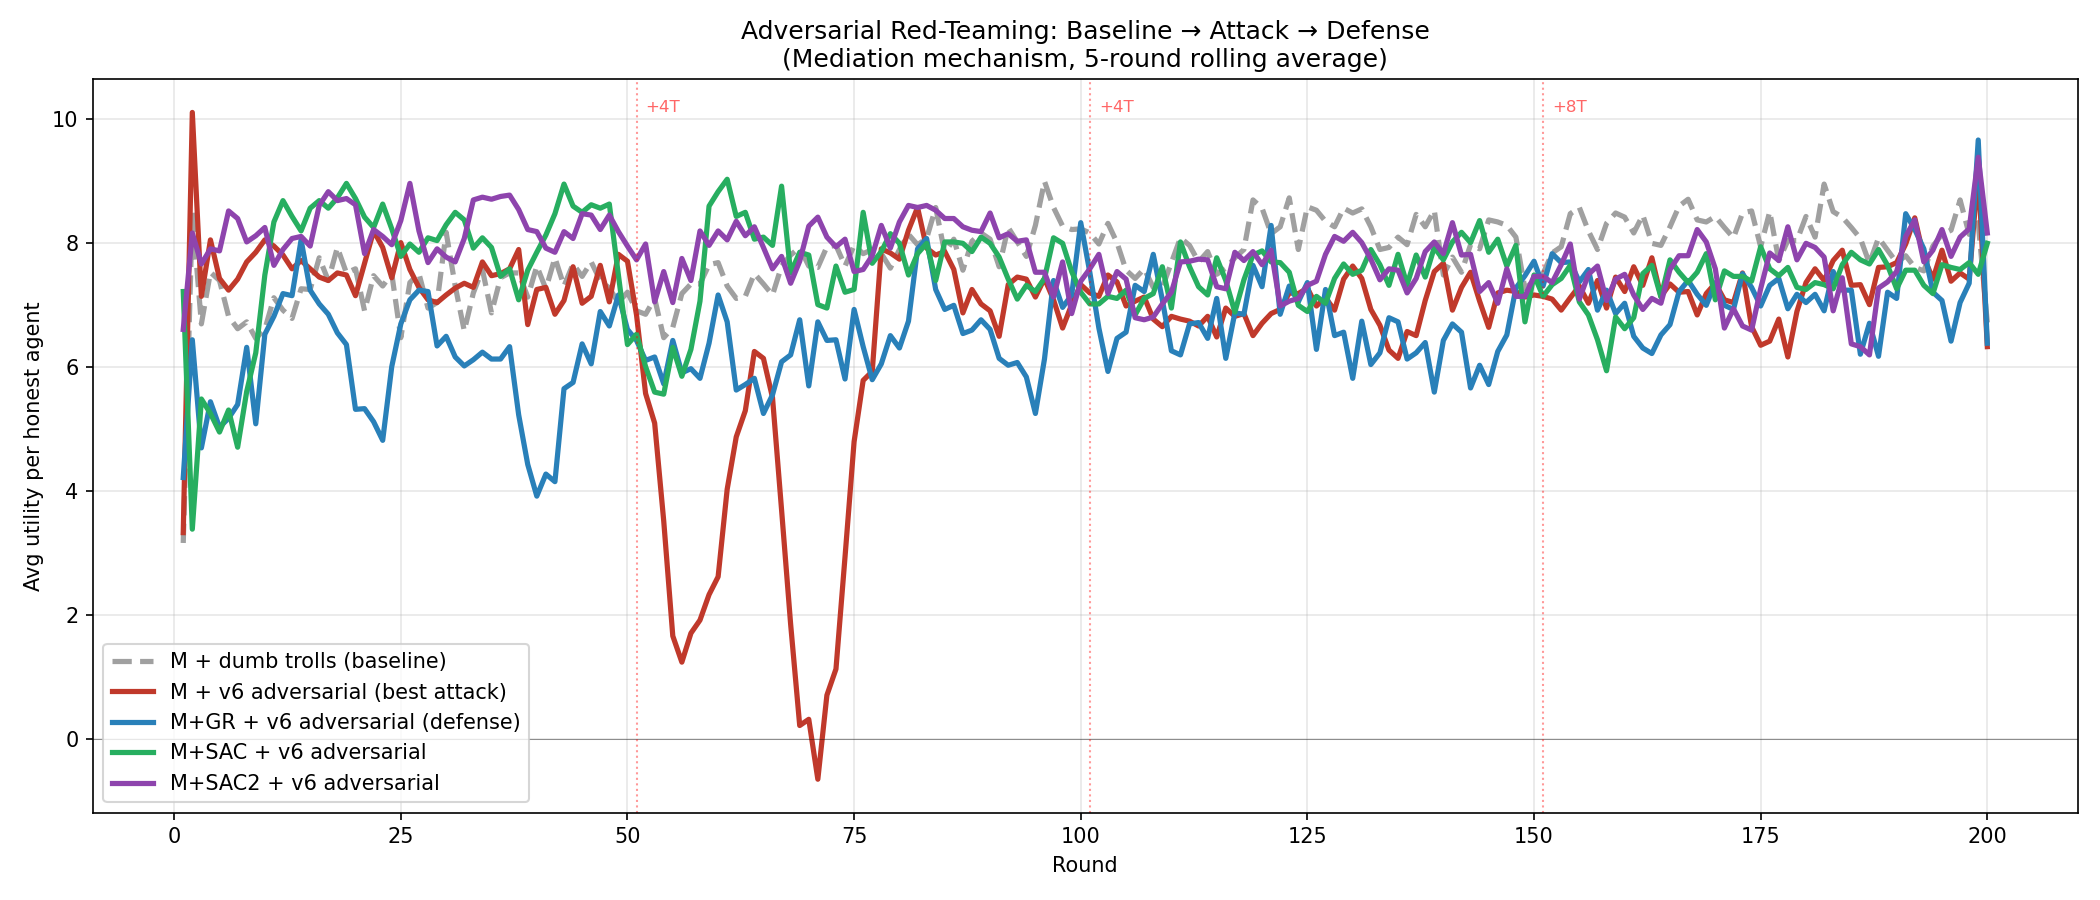
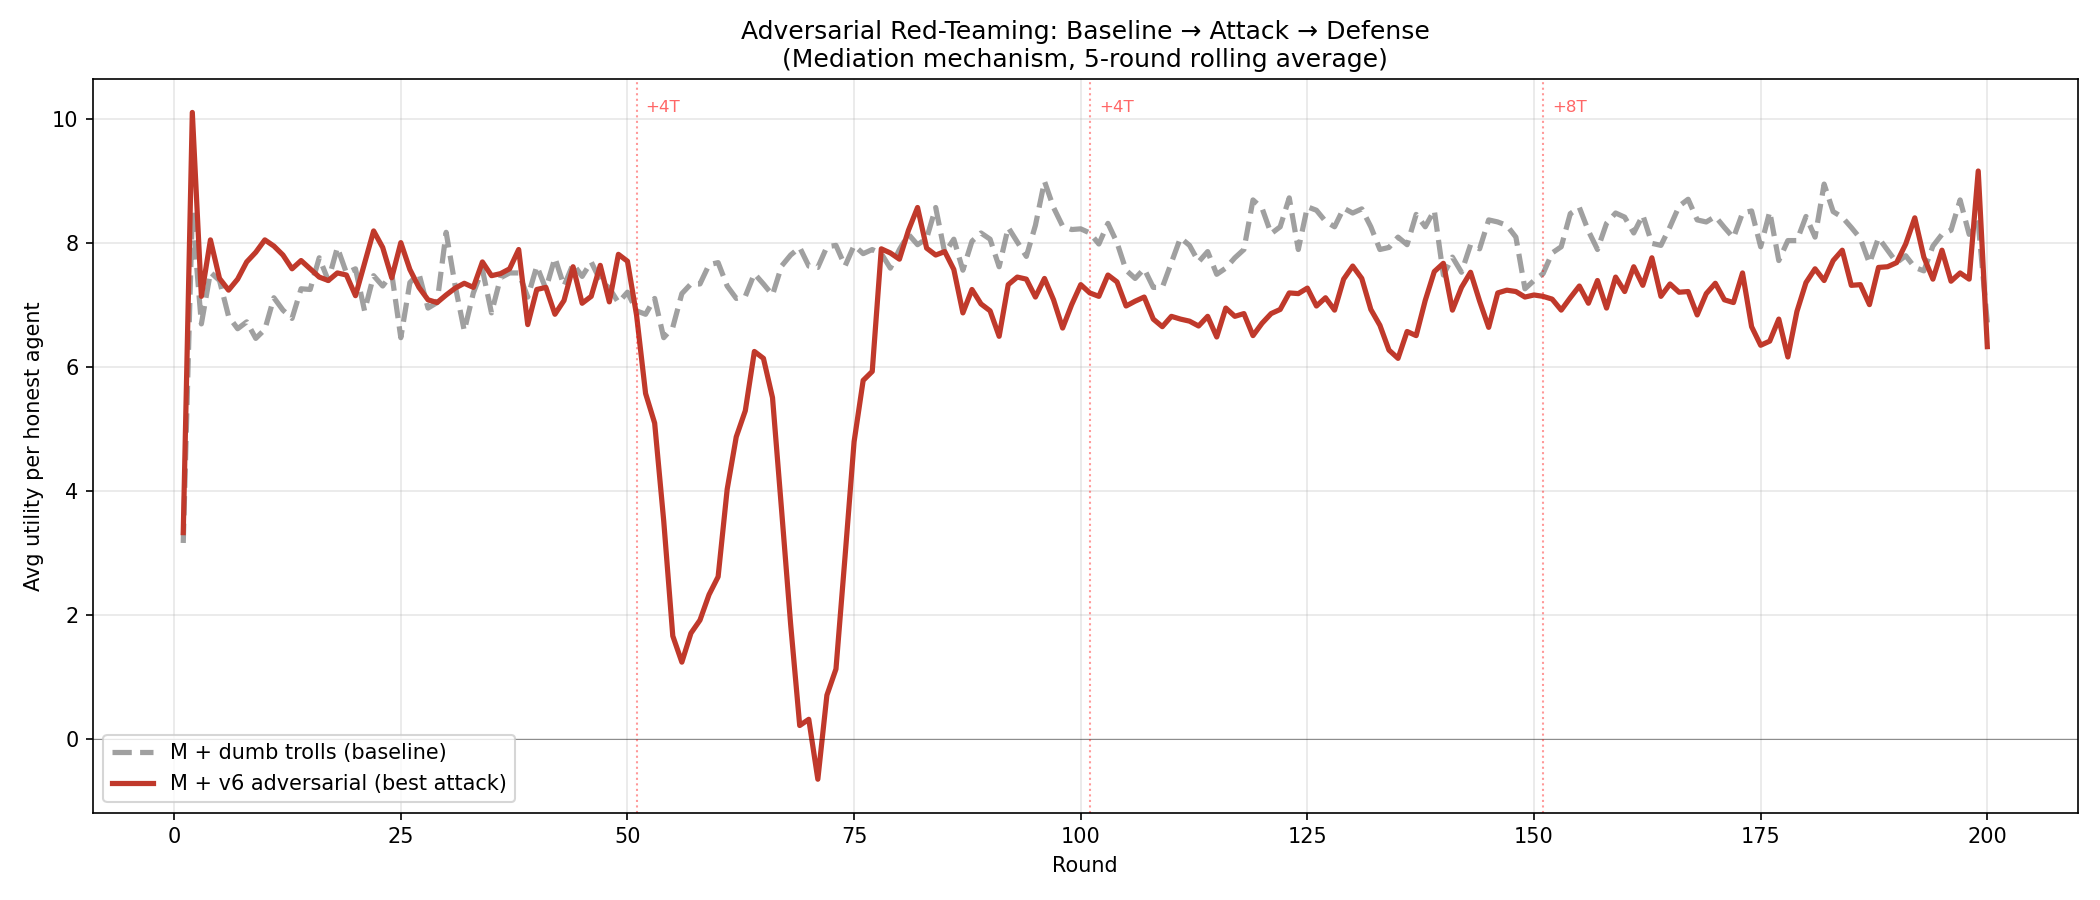
Add utility distribution plot, remove defense lines from adversarial plots
- Add boxplot with Gini coefficients for all 8 mechanisms
- Add utility-equality tradeoff discussion in section 7.2
- Remove M+GR, M+SAC, M+SAC2 from adversarial comparison plots

Changed region(s): [[0.0929, 0.1556, 0.9595, 0.56], [0.0619, 0.7156, 0.2476, 0.9022], [0.0619, 0.3111, 0.1238, 0.56]]

diff --git a/simulation/analysis/adversarial_plots.py b/simulation/analysis/adversarial_plots.py
@@ -1,6 +1,6 @@
 """Adversarial red-teaming comparison plots.
 
-Three-line story: dumb trolls (baseline) → v6 (best attack) → M+GR (defense).
+Two-line story: dumb trolls (baseline) → v6 (best attack).
 Keeps revote outcomes table and mediation utilisation chart.
 """
 from __future__ import annotations
@@ -83,36 +83,25 @@ def _add_injection_markers(ax, y_pos: float | None = None):
     ax.text(152, y_pos, "+8T", fontsize=8, color="red", alpha=0.6)
 
 
-# --- Colors for the 5-line story ---
 CLR_DUMB = "#888888"
 CLR_V6 = "#c0392b"
-CLR_GR = "#2980b9"
-CLR_SAC = "#27ae60"
-CLR_SAC2 = "#8e44ad"
 
 
 def plot_adversarial_comparison(save: bool = True) -> None:
-    """Generate comparison plots: dumb trolls vs v6 vs M+GR vs M_SAC vs M_SAC2."""
+    """Generate comparison plots: dumb trolls vs v6."""
     out_dir = _get_out_dir()
 
-    # Load the five datasets
     dumb_runs = _load_runs("M_tprog_run_*.json")
     v6_runs = _load_runs("M_tprog_adv_v6_run_*.json")
-    gr_runs = _load_runs("RM_tprog_adv_v6_run_*.json")
-    sac_runs = _load_runs("M_SAC_tprog_adv_v6_run_*.json")
-    sac2_runs = _load_runs("M_SAC2_tprog_adv_v6_run_*.json")
 
     dumb_pr = _utility_trajectory(dumb_runs)
     v6_pr = _utility_trajectory(v6_runs)
-    gr_pr = _utility_trajectory(gr_runs)
-    sac_pr = _utility_trajectory(sac_runs)
-    sac2_pr = _utility_trajectory(sac2_runs)
 
-    if not dumb_pr and not v6_pr and not sac_pr and not sac2_pr:
+    if not dumb_pr and not v6_pr:
         print("No adversarial run data found.")
         return
 
-    print(f"Loaded: dumb={len(dumb_runs)} runs, v6={len(v6_runs)} runs, M+GR={len(gr_runs)} runs, M_SAC={len(sac_runs)} runs, M_SAC2={len(sac2_runs)} runs")
+    print(f"Loaded: dumb={len(dumb_runs)} runs, v6={len(v6_runs)} runs")
 
     # ============================================================
     # Plot 1: Per-round utility (smoothed) — 3 lines
@@ -128,21 +117,6 @@ def plot_adversarial_comparison(save: bool = True) -> None:
         rounds = list(range(1, len(v6_pr) + 1))
         ax.plot(rounds, _smooth(v6_pr), color=CLR_V6, linewidth=2.5,
                 label="M + v6 adversarial (best attack)")
-
-    if gr_pr:
-        rounds = list(range(1, len(gr_pr) + 1))
-        ax.plot(rounds, _smooth(gr_pr), color=CLR_GR, linewidth=2.5,
-                label="M+GR + v6 adversarial (defense)")
-
-    if sac_pr:
-        rounds = list(range(1, len(sac_pr) + 1))
-        ax.plot(rounds, _smooth(sac_pr), color=CLR_SAC, linewidth=2.5,
-                label="M+SAC + v6 adversarial")
-
-    if sac2_pr:
-        rounds = list(range(1, len(sac2_pr) + 1))
-        ax.plot(rounds, _smooth(sac2_pr), color=CLR_SAC2, linewidth=2.5,
-                label="M+SAC2 + v6 adversarial")
 
     ax.axhline(0, color="black", linestyle="-", linewidth=0.5, alpha=0.4)
     _add_injection_markers(ax)
@@ -168,9 +142,6 @@ def plot_adversarial_comparison(save: bool = True) -> None:
     for label, pr, color, ls in [
         ("M + dumb trolls (baseline)", dumb_pr, CLR_DUMB, "--"),
         ("M + v6 adversarial (best attack)", v6_pr, CLR_V6, "-"),
-        ("M+GR + v6 adversarial (defense)", gr_pr, CLR_GR, "-"),
-        ("M+SAC + v6 adversarial", sac_pr, CLR_SAC, "-"),
-        ("M+SAC2 + v6 adversarial", sac2_pr, CLR_SAC2, "-"),
     ]:
         if not pr:
             continue
@@ -204,7 +175,7 @@ def plot_adversarial_comparison(save: bool = True) -> None:
     table_data = []
     headers = ["Condition", "Round", "Winner Designer", "action_both", "action_one", "Trolls/Total"]
 
-    for tag, runs in [("M+v6", v6_runs), ("M+GR+v6", gr_runs), ("M+SAC+v6", sac_runs), ("M+SAC2+v6", sac2_runs)]:
+    for tag, runs in [("M+v6", v6_runs)]:
         for run in runs:
             revotes = run.get("session_log", {}).get("revotes", [])
             for rv in revotes:
@@ -267,9 +238,6 @@ def plot_adversarial_comparison(save: bool = True) -> None:
     for label, runs, color, ls in [
         ("M + dumb trolls", dumb_runs, CLR_DUMB, "--"),
         ("M + v6 adversarial", v6_runs, CLR_V6, "-"),
-        ("M+GR + v6 adversarial", gr_runs, CLR_GR, "-"),
-        ("M+SAC + v6 adversarial", sac_runs, CLR_SAC, "-"),
-        ("M+SAC2 + v6 adversarial", sac2_runs, CLR_SAC2, "-"),
     ]:
         fracs = _mediation_fraction(runs)
         if not fracs:

diff --git a/overleaf/main.tex b/overleaf/main.tex
@@ -529,6 +529,15 @@ Costly Sanctions                  & 189 & 175 & 161 & 160 &  685 \\
 
 \textbf{Key finding}: Mediation is the clear winner with a cumulative utility of 1556 --- 29\% above the communication-only baseline (1209) and 15\% above the second-place Network Rewiring + Reputation (1352). Critically, Mediation is the \textit{only} mechanism whose per-phase utility \textit{increases} as more trolls are injected (359 $\to$ 407), demonstrating not just resilience but active recovery under adversarial pressure.
 
+\begin{figure}[H]
+  \centering
+  \includegraphics[width=\textwidth]{utility_distribution.png}
+  \caption{Distribution of cumulative honest-agent utility by mechanism over 200 rounds with progressive troll injection. Diamonds indicate means; Gini coefficients are shown below each label. Mediation achieves the highest mean utility but moderate inequality (Gini = 0.221), while Governance achieves the most equal distribution (Gini = 0.068) at lower total welfare.}
+  \label{fig:utility_distribution}
+\end{figure}
+
+Figure~\ref{fig:utility_distribution} reveals a utility--equality tradeoff across mechanisms. Mediation produces the highest total welfare but with moderate inequality (Gini = 0.221), as some agents benefit disproportionately from mediated trades. Governance, by contrast, achieves the lowest Gini (0.068) through its enforcement of uniform behaviour, but at 17\% lower mean utility. We select Mediation for Phase~2 hardening based on total utility, as our primary objective is market stability under adversarial pressure rather than distributional equality.
+
 \subsection{Mechanism Trajectories}
 
 \begin{figure}[H]
